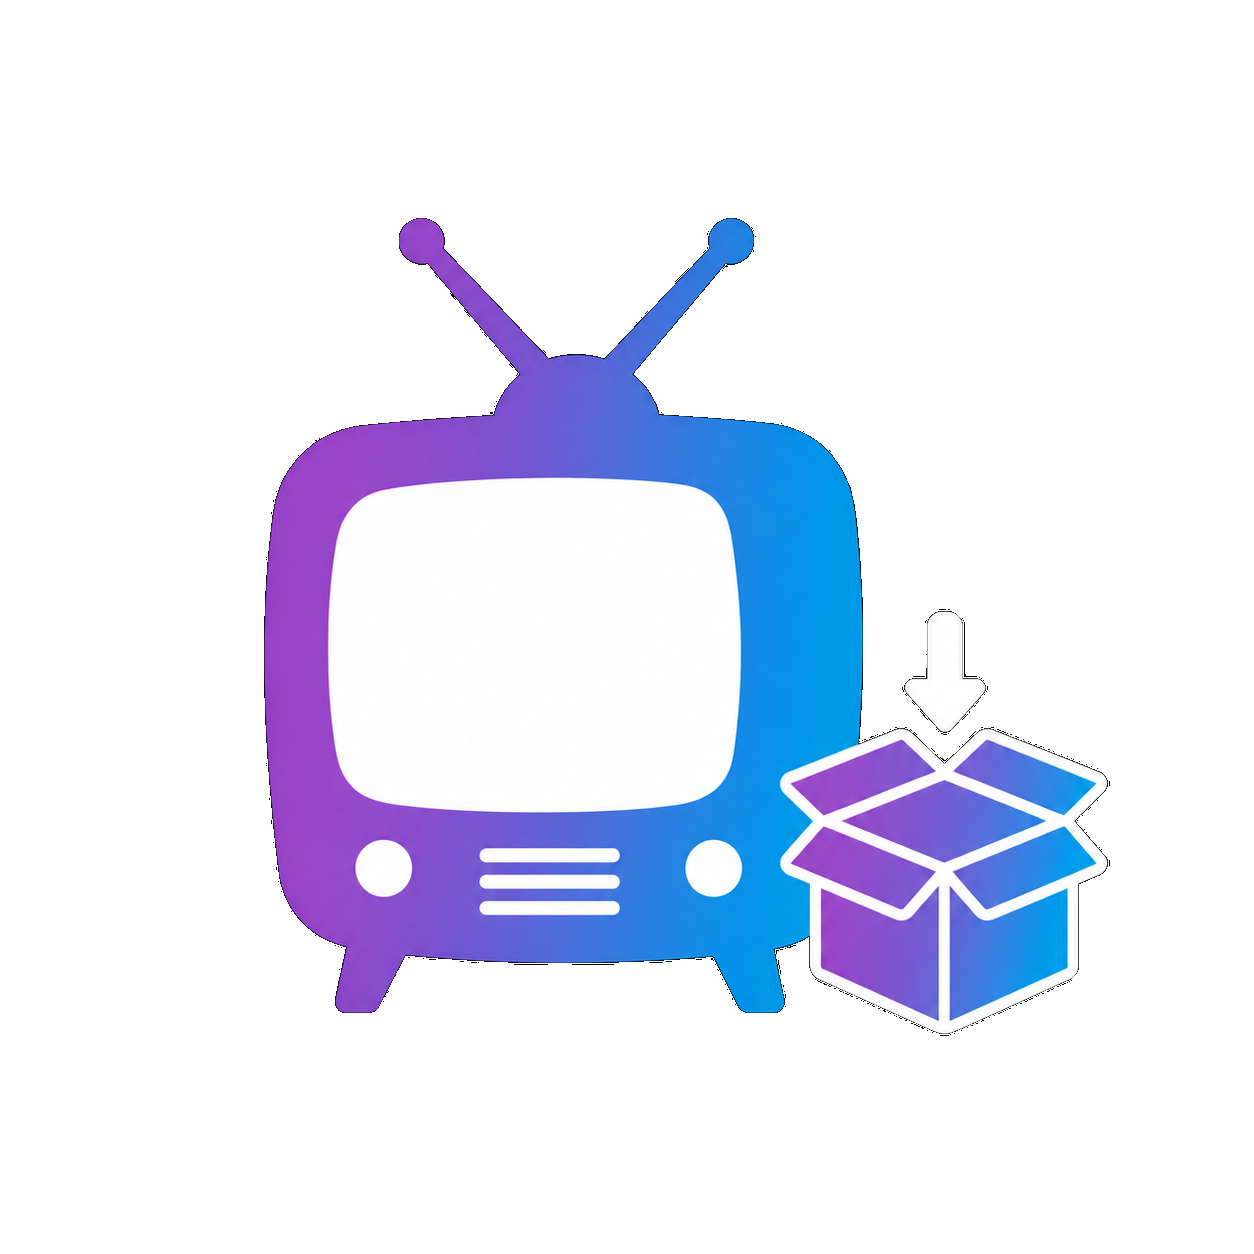
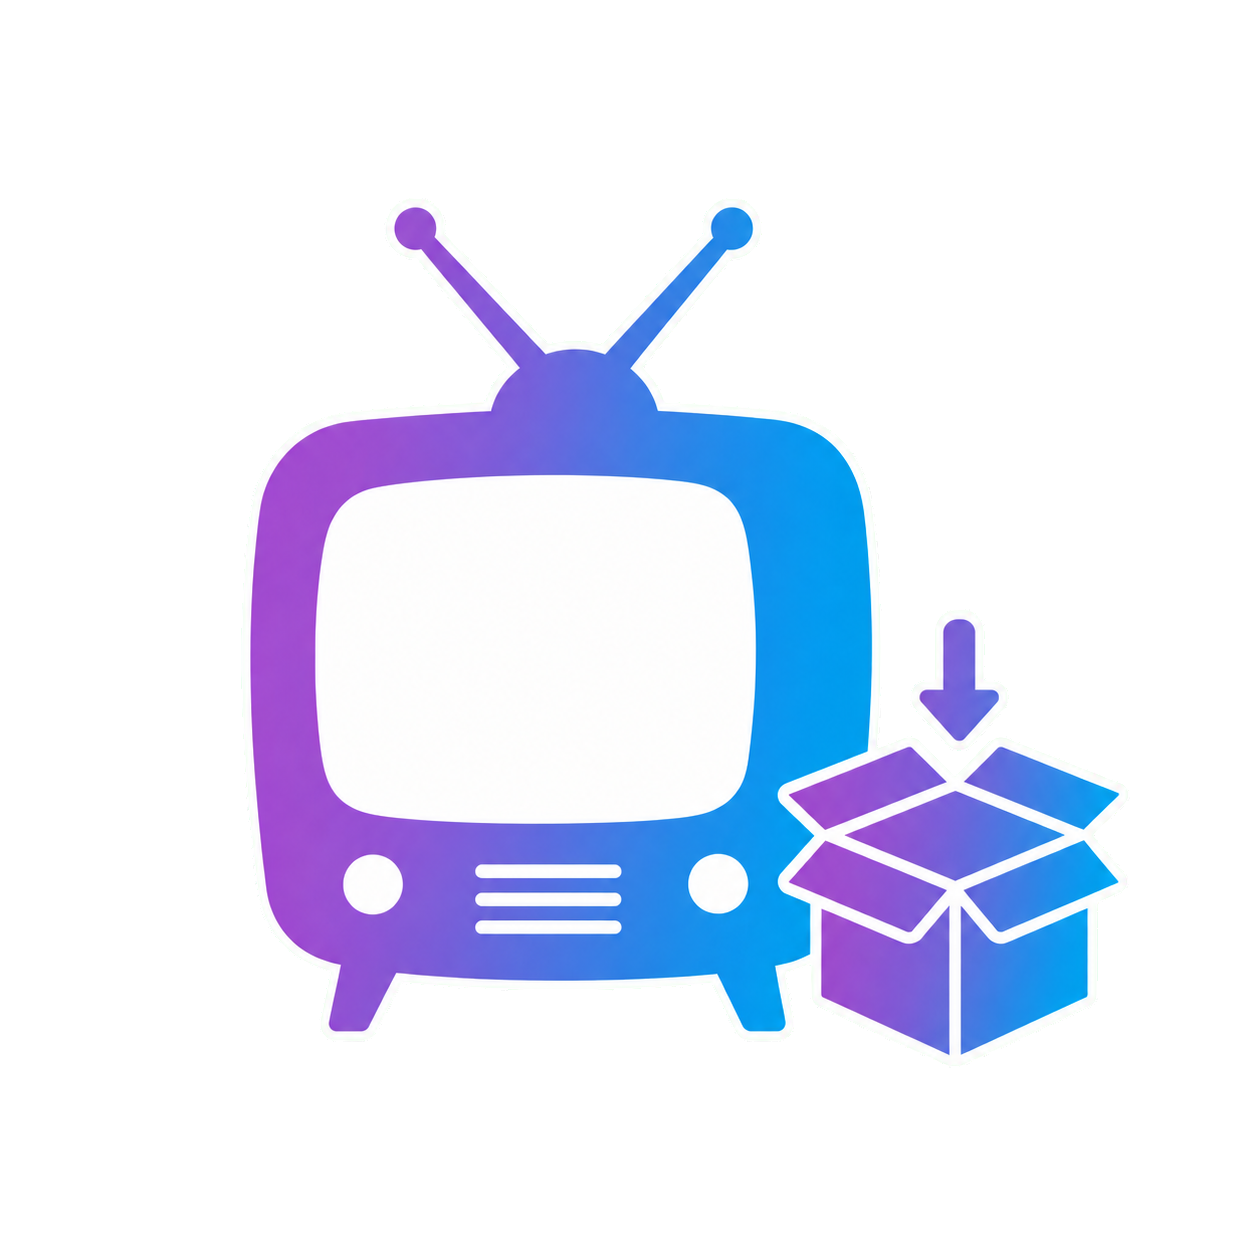
Fix Jellyfin 10.11.11 release manifest and branding

diff --git a/README.md b/README.md
@@ -85,7 +85,7 @@ to a dedicated Collection Manager directory inside your Jellyfin plugins
 directory, restart Jellyfin, then open **Dashboard → Collection Manager**.
 
 For repository-manifest testing, first make a release ZIP containing the exact
-Release DLL, publish that ZIP as a GitHub Release asset, calculate its SHA-256,
+Release DLL, publish that ZIP as a GitHub Release asset, calculate its MD5,
 and create a manifest whose version, target ABI, framework, source URL,
 checksum, timestamp, branding image, and changelog all describe that exact
 asset. The current private-testing release is available through this repository
@@ -96,7 +96,7 @@ https://raw.githubusercontent.com/mp3li/Collection-Manager-Jellyfin-Plugin/main/
 ```
 
 In Jellyfin, open **Dashboard → Plugins → Repositories**, add that URL, then
-install the **0.1.0.1 Private Testing** prerelease from the catalog. Restart
+install the **0.1.0.2 Private Testing** prerelease from the catalog. Restart
 Jellyfin and record the real server results in the testing tracker.
 
 ## Private test tracking

diff --git a/Documentation/CHANGELOG.md b/Documentation/CHANGELOG.md
@@ -2,6 +2,17 @@
 
 ## [Unreleased]
 
+### Fixed
+
+- Corrected the repository manifest for Jellyfin 10.11.11: it now uses the
+  exact `10.11.11.0` target ABI and Jellyfin's required MD5 release-package
+  checksum format.
+- Pointed the repository card at the full Collection Manager promotional image
+  instead of the small transparent icon.
+- Reworked the Collection Manager icon and matching promotional graphic with
+  smooth, anti-aliased edges while retaining the shared Media Tagging Manager
+  visual system and background treatment.
+
 ### Changed
 
 - Renamed the plugin, project, assembly, dashboard route, manifest, branding,
